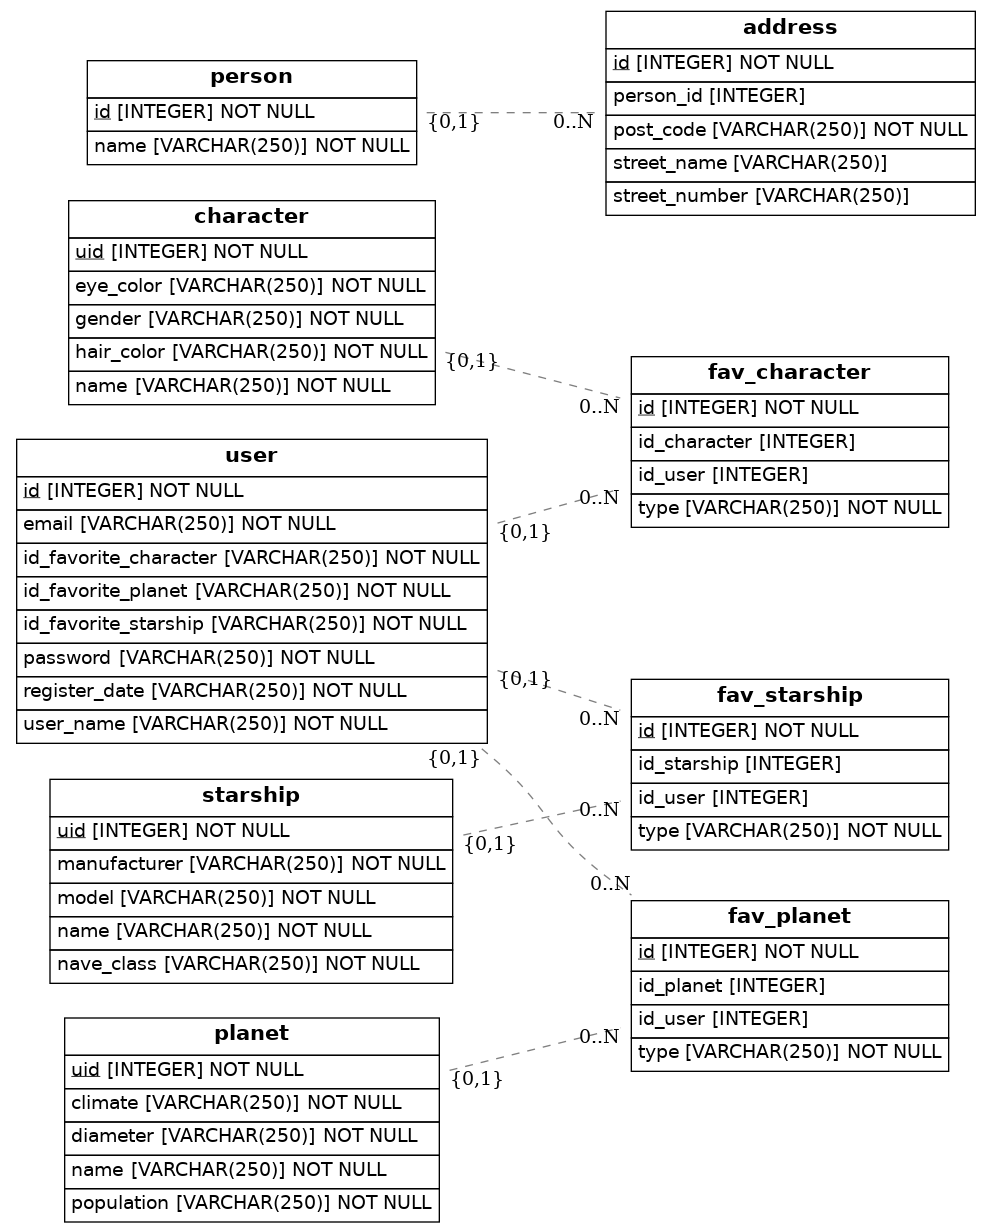
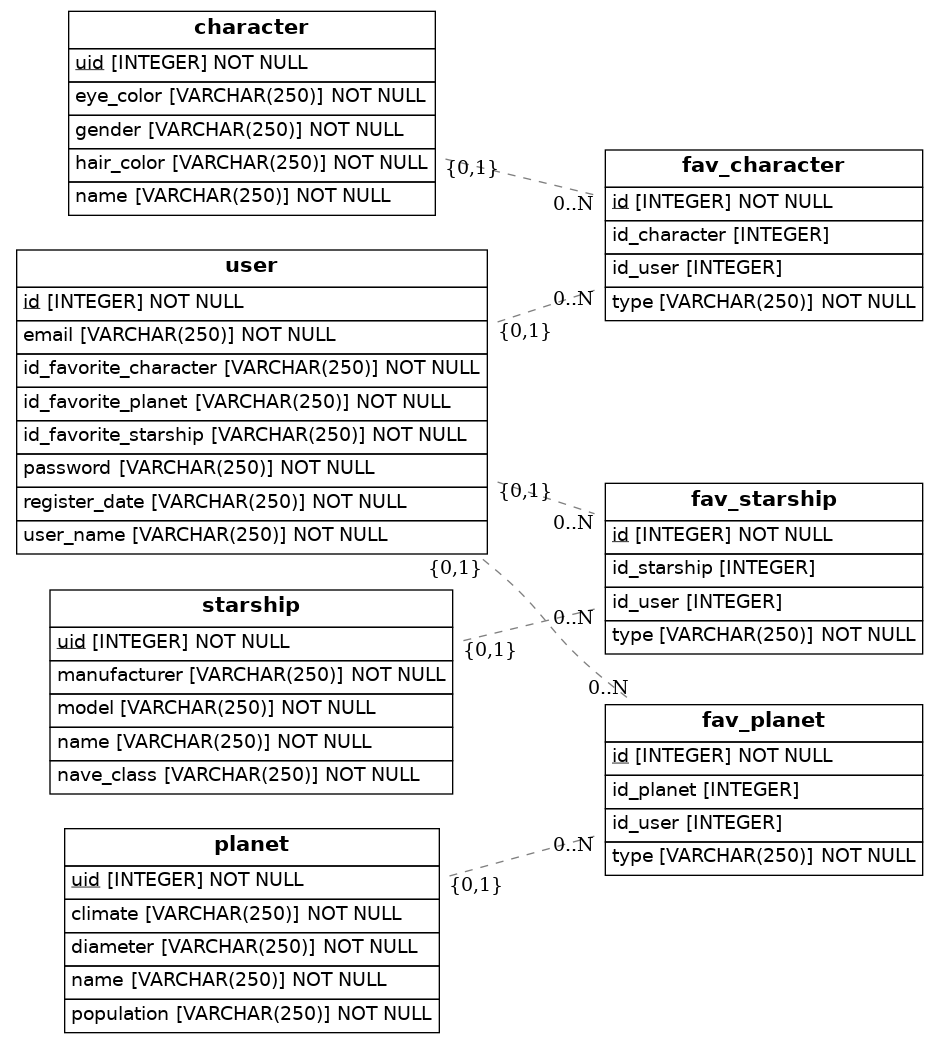
elimino emjemplo

Changed region(s): [[0.0, 0.0, 0.9883, 1.0], [0.5868, 0.4602, 0.9883, 0.8591], [0.525, 0.5523, 0.5559, 0.5829]]

diff --git a/src/models.py b/src/models.py
@@ -88,34 +88,6 @@ class FavPlanet(Base):
     
 
 
-
-
-
-
-
-
-
-
-
-
-class Person(Base):
-    __tablename__ = 'person'
-    # Here we define columns for the table person
-    # Notice that each column is also a normal Python instance attribute.
-    id = Column(Integer, primary_key=True)
-    name = Column(String(250), nullable=False)
-
-class Address(Base):
-    __tablename__ = 'address'
-    # Here we define columns for the table address.
-    # Notice that each column is also a normal Python instance attribute.
-    id = Column(Integer, primary_key=True)
-    street_name = Column(String(250))
-    street_number = Column(String(250))
-    post_code = Column(String(250), nullable=False)
-    person_id = Column(Integer, ForeignKey('person.id'))
-    person = relationship(Person)
-
     def to_dict(self):
         return {}
 
